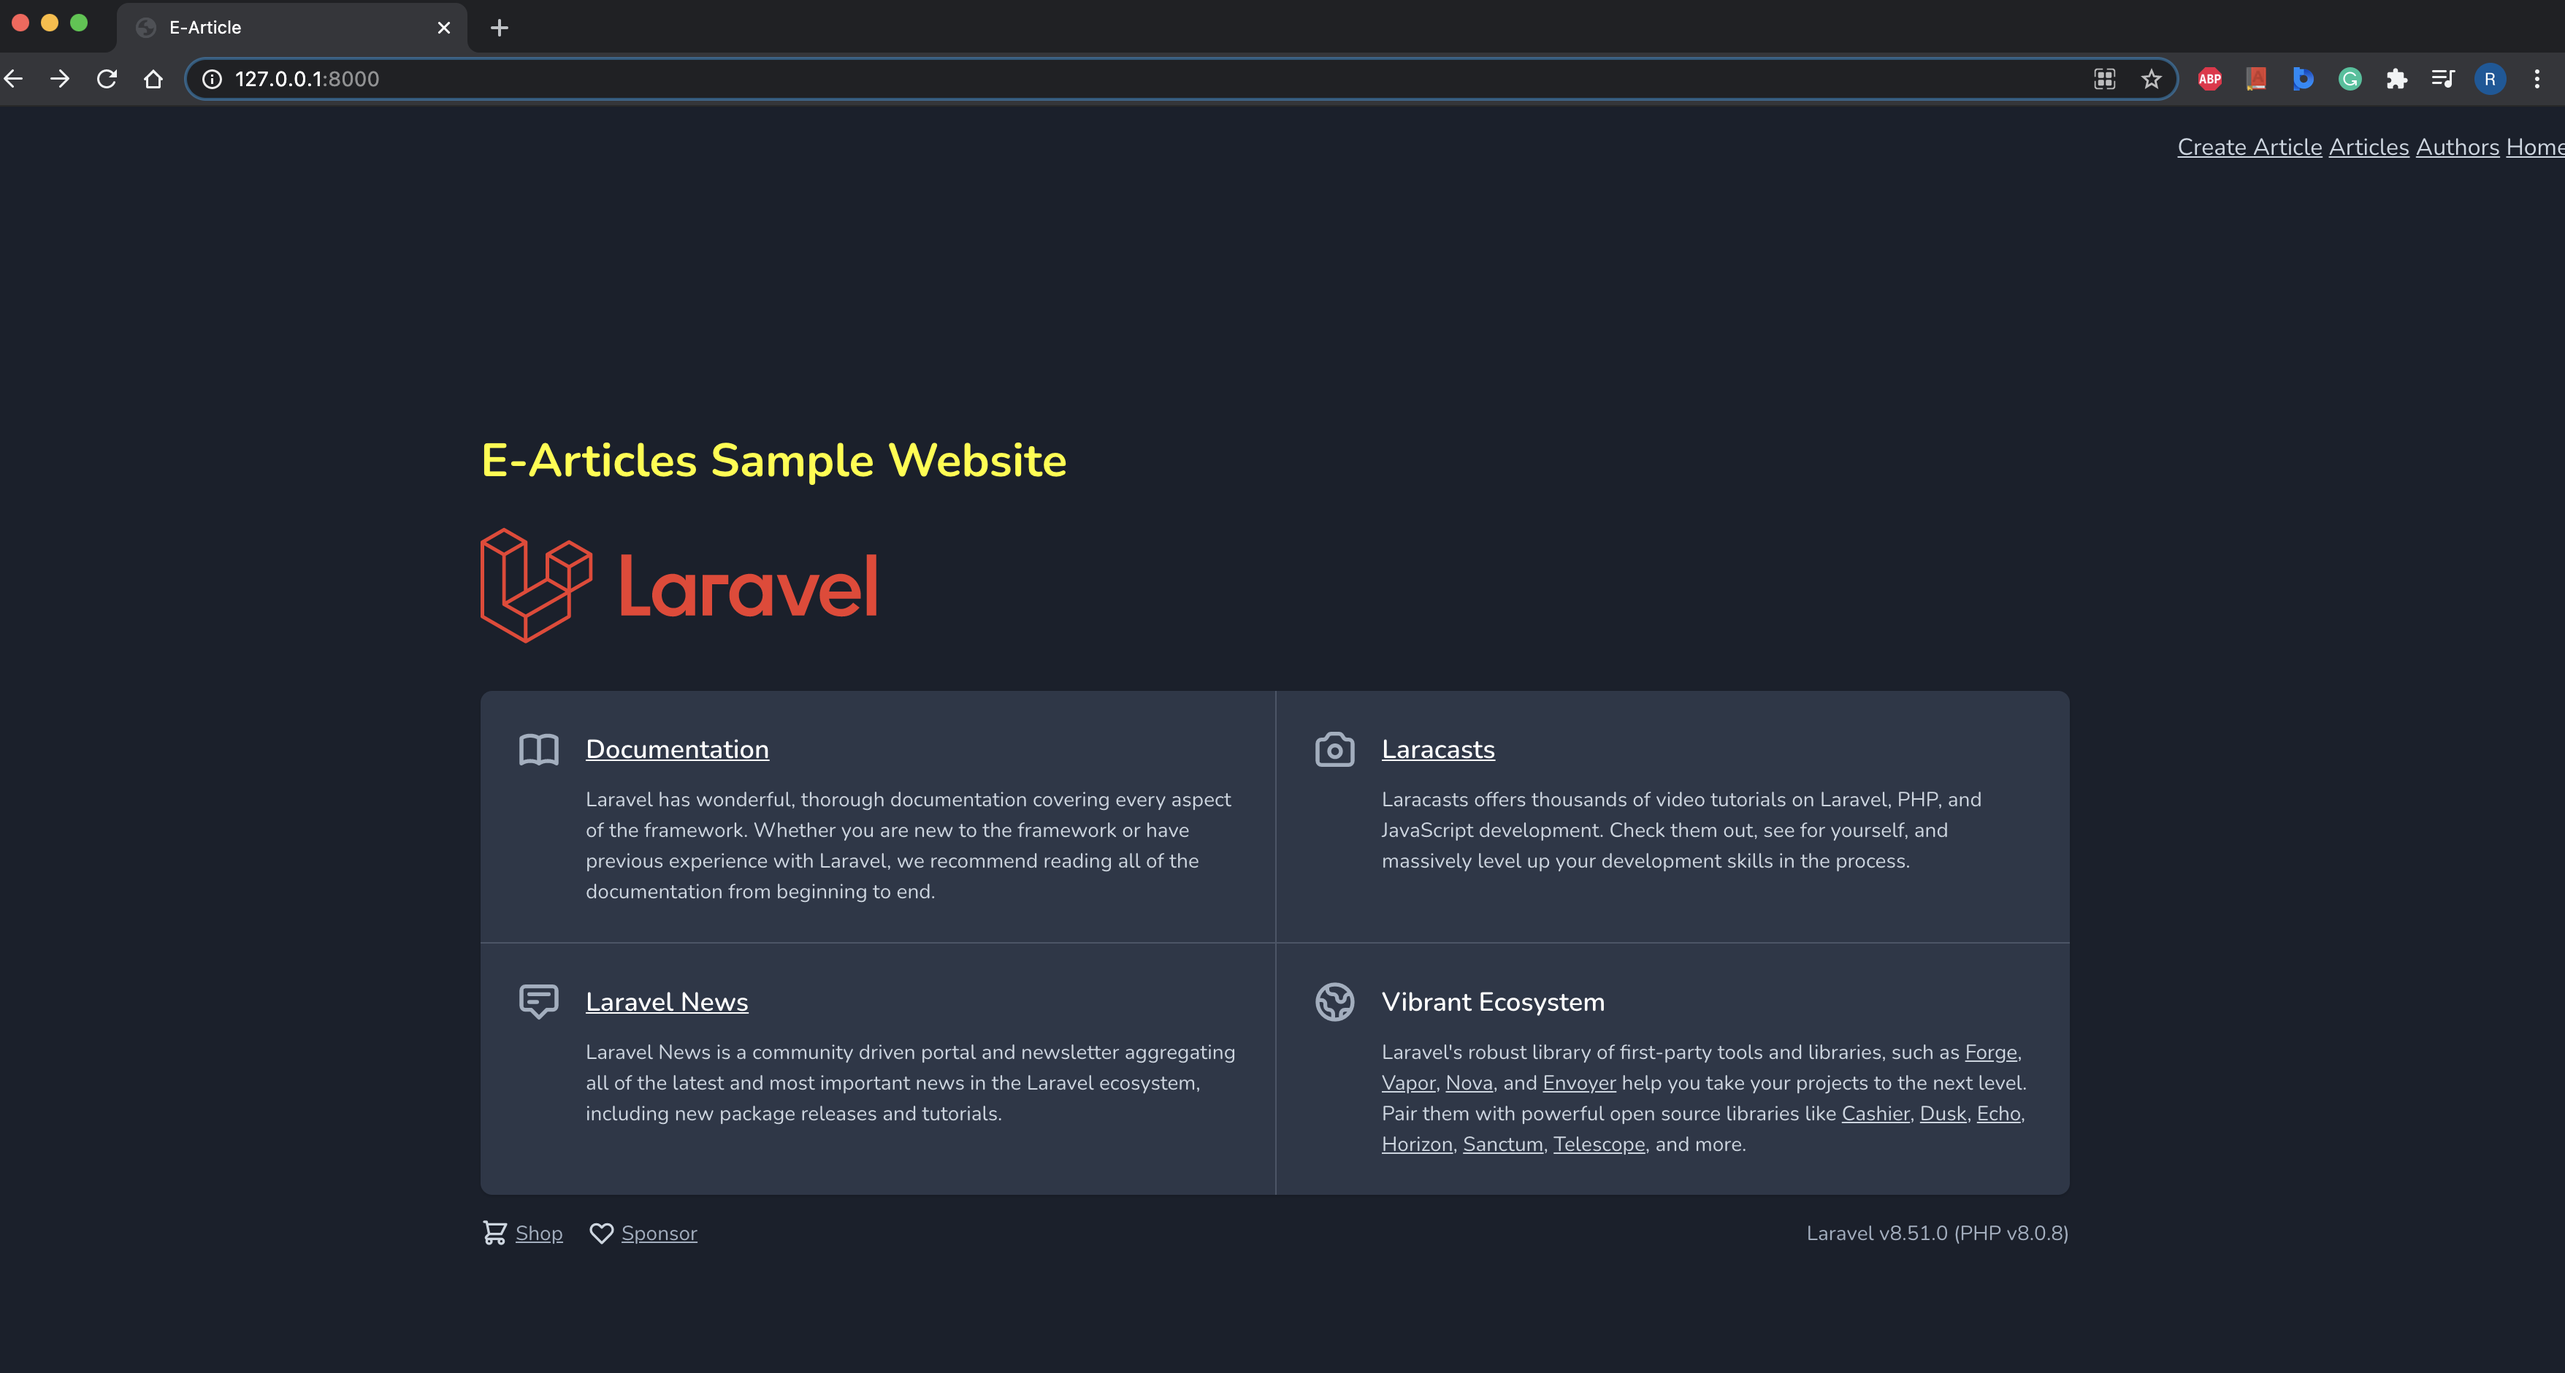
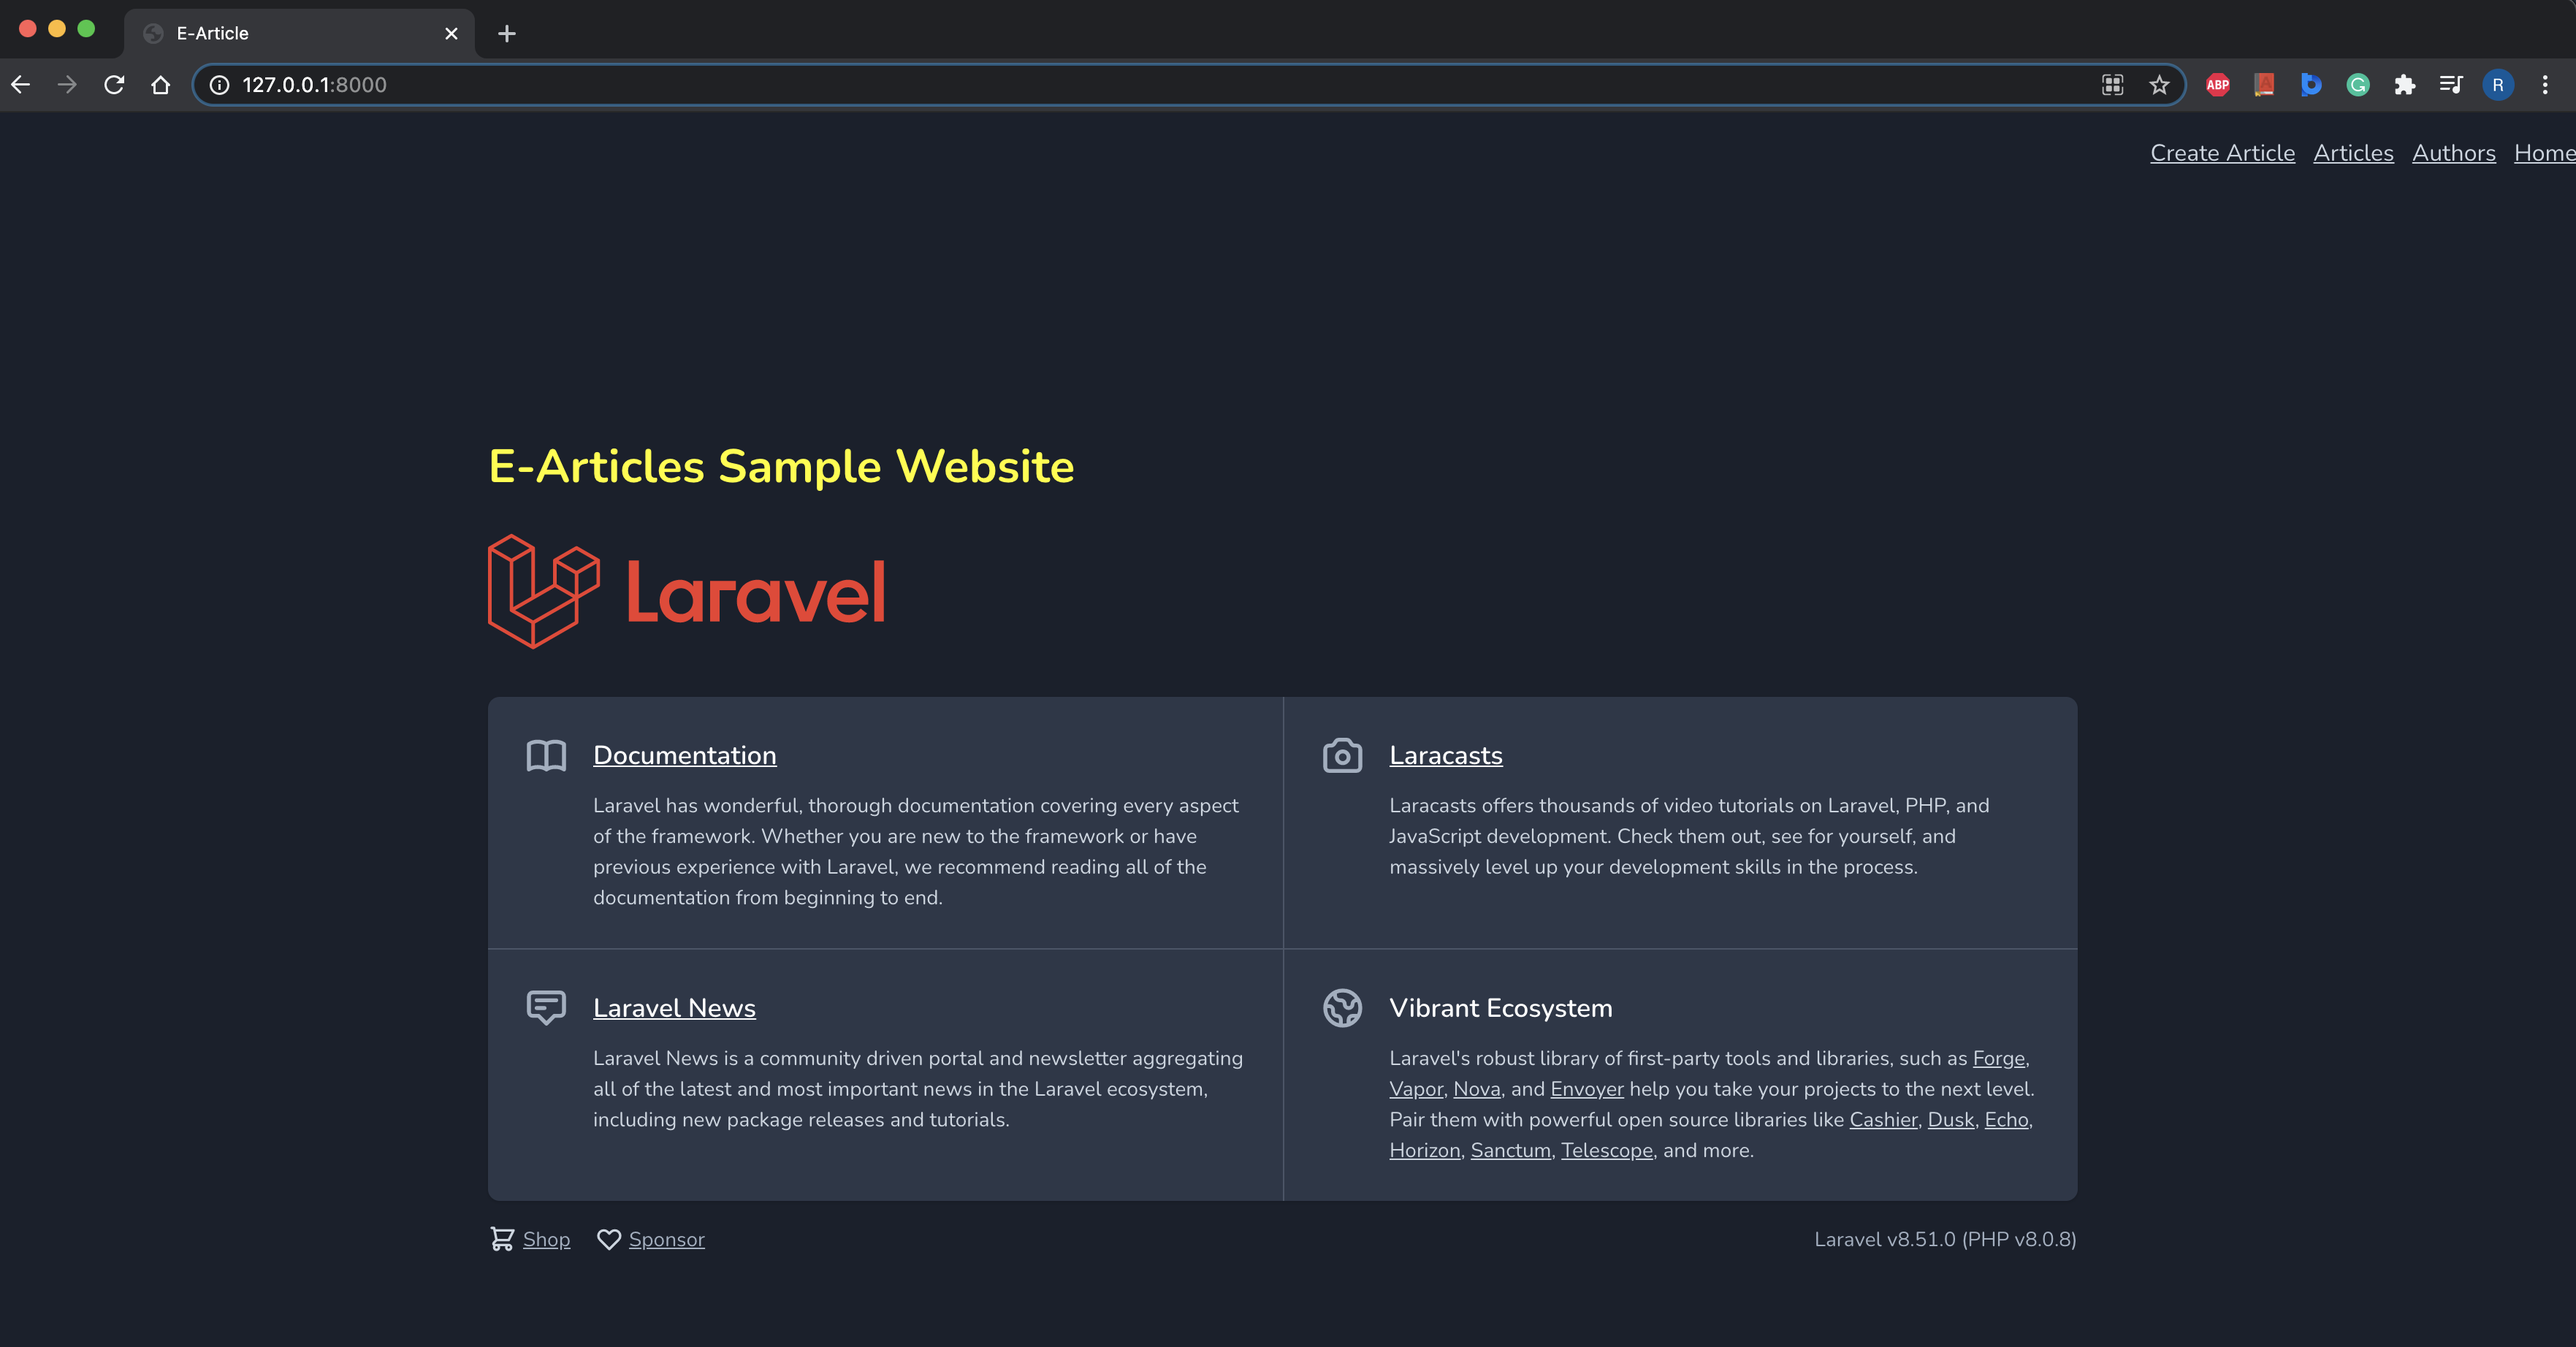
home top bar changes

diff --git a/resources/views/welcome.blade.php b/resources/views/welcome.blade.php
@@ -27,9 +27,9 @@
                 <div class="hidden fixed top-0 right-0 px-10 py-4 sm:block">
                     @auth
                         <a href="{{ url('/create_article') }}" class="text-lg-right dark:text-gray-400 underline">Create Article</a>
-                        <a href="{{ url('/article') }}" class="text-lg-right dark:text-gray-400 underline">Articles</a>
-                        <a href="{{ url('/author') }}" class="text-lg-right dark:text-gray-400 underline">Authors</a>
-                        <a href="{{ url('/home') }}" class="text-lg-right dark:text-gray-400 underline">Home</a>
+                        <a href="{{ url('/article') }}" class="ml-2 text-lg-right dark:text-gray-400 underline">Articles</a>
+                        <a href="{{ url('/author') }}" class="ml-2 text-lg-right dark:text-gray-400 underline">Authors</a>
+                        <a href="{{ url('/home') }}" class="ml-2 text-lg-right dark:text-gray-400 underline">Home</a>
                     @else
                         <a href="{{ route('login') }}" class="text-sm dark:text-gray-400 underline">Log in</a>
 
